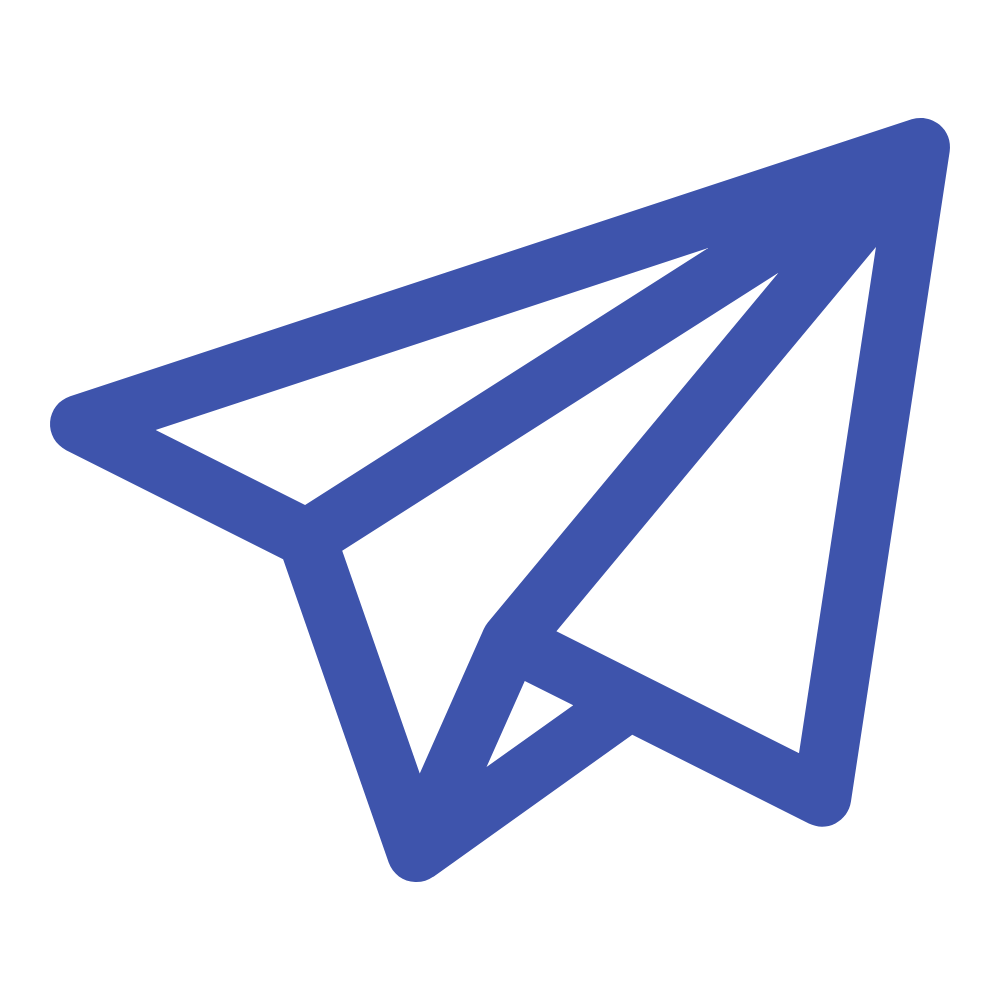
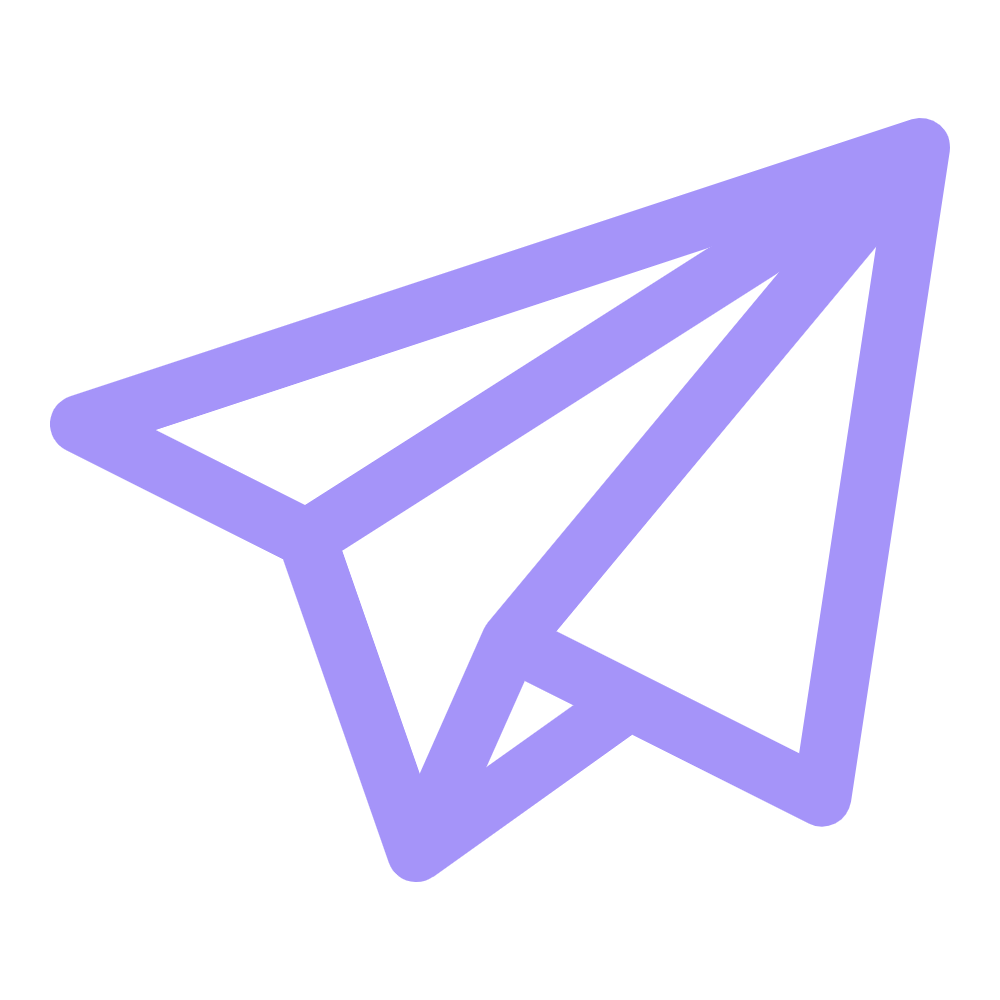
Changed colour schemes, minor changes all around

Changed region(s): [[0.031, 0.093, 0.961, 0.899]]

diff --git a/components/Hero.js b/components/Hero.js
@@ -4,7 +4,6 @@ import config from "@/config";
 import BoxReveal from "./ui/box-reveal";
 import PulsatingButton from "./ui/pulsating-button";
 
-
 const Hero = () => {
   return (
     <section className="max-w-7xl mx-auto bg-base-100 flex flex-col lg:flex-row items-center justify-center gap-16 lg:gap-20 px-8 py-8 lg:py-20">
@@ -26,17 +25,17 @@ const Hero = () => {
 
         
 <h1 className="font-extrabold text-4xl lg:text-6xl tracking-tight md:-mb-4">
-  <BoxReveal boxColor={"#635bff"} duration={0.5}>
-          Turn Your<span style={{ color: "#635bff" }}> Git</span>
+  <BoxReveal boxColor={"#A594F9"} duration={0.5}>
+          Turn Your<span style={{ color: "#A594F9" }}> Git</span>
   </BoxReveal>
-  <BoxReveal boxColor={"#635bff"} duration={0.5}>
-  <span style={{ color: "#635bff" }}> Commits</span> 
+  <BoxReveal boxColor={"#A594F9"} duration={0.5}>
+  <span style={{ color: "#A594F9" }}> Commits</span> 
   </BoxReveal>
-  <BoxReveal boxColor={"#635bff"} duration={0.5}>
+  <BoxReveal boxColor={"#A594F9"} duration={0.5}>
     into 
-    <span style={{ color: "#635bff" }}> Viral </span> Social Media
+    <span style={{ color: "#A594F9" }}> Viral </span> Social Media
   </BoxReveal>
-  <BoxReveal boxColor={"#635bff"} duration={0.5}>
+  <BoxReveal boxColor={"#A594F9"} duration={0.5}>
     Updates!
   </BoxReveal>
   
@@ -51,14 +50,7 @@ const Hero = () => {
         <TestimonialsAvatars priority={true} />
       </div>
       <div className="lg:w-full">
-        <Image
-          src="https://images.unsplash.com/photo-1571171637578-41bc2dd41cd2?ixlib=rb-4.0.3&ixid=M3wxMjA3fDB8MHxwaG90by1wYWdlfHx8fGVufDB8fHx8fA%3D%3D&auto=format&fit=crop&w=3540&q=80"
-          alt="Product Demo"
-          className="w-full"
-          priority={true}
-          width={500}
-          height={500}
-        />
+        
       </div>
     </section>
   );

diff --git a/components/Pricing.js b/components/Pricing.js
@@ -7,12 +7,12 @@ import ButtonCheckout from "./ButtonCheckout";
 
 const Pricing = () => {
   return (
-    <section className="bg-base-200 overflow-hidden" id="pricing">
+    <section className="bg-accent overflow-hidden" id="pricing" >
       <div className="py-24 px-8 max-w-5xl mx-auto">
         <div className="flex flex-col text-center w-full mb-20">
           <p className="font-medium text-primary mb-8">Pricing</p>
           <h2 className="font-bold text-3xl lg:text-5xl tracking-tight">
-            Save hours of repetitive code and ship faster!
+            Save hours of Marketing and focus on development!
           </h2>
         </div>
 
@@ -62,7 +62,7 @@ const Pricing = () => {
                   </p>
                   <div className="flex flex-col justify-end mb-[4px]">
                     <p className="text-xs text-base-content/60 uppercase font-semibold">
-                      USD
+                      CAD
                     </p>
                   </div>
                 </div>
@@ -92,7 +92,7 @@ const Pricing = () => {
                   <ButtonCheckout priceId={plan.priceId} />
 
                   <p className="flex items-center justify-center gap-2 text-sm text-center text-base-content/80 font-medium relative">
-                    Pay once. Access forever.
+                    
                   </p>
                 </div>
               </div>

diff --git a/config.js b/config.js
@@ -26,7 +26,7 @@ const config = {
         //  REQUIRED - Name of the plan, displayed on the pricing page
         name: "Monthly subscription",
         // A friendly description of the plan, displayed on the pricing page. Tip: explain why this plan and not others
-        description: "Perfect for new media posters",
+        description: "Perfect for new developers",
         // The price you want to display, the one user will be charged on Stripe.
         price: 4.99,
         // If you have an anchor price (i.e. $29) that you want to display crossed out, put it here. Otherwise, leave it empty
@@ -35,8 +35,8 @@ const config = {
           {
             name: "Ai generated tweets from github repos",
           },
-          { name: "Social Media Insights" },
-          { name: "simultaneous posting on multiple accounts" },
+          { name: "Post right from your Dashboard!" },
+          { name: "Schedule Tweets" },
           ,
         ],
       },
@@ -55,9 +55,10 @@ const config = {
           {
             name: "Ai generated tweets from github repos",
           },
-          { name: "Social Media Insights" },
-          { name: "simultaneous posting on multiple accounts" },
+          { name: "Post right from your Dashboard!" },
+,
           { name: "24/7 support" },
+          { name: "Schedule Tweets" },  
         ],
       },
     ],

diff --git a/components/Input.js b/components/Input.js
@@ -6,7 +6,7 @@ const Input = () => {
     <StyledWrapper>
       <div className="input-group">
         <input type="email" className="input" id="Email" name="Email" placeholder="uiverse@verse.io" autoComplete="off" />
-        <input className="button--submit" defaultValue="Subscribe" type="submit" />
+        <input className="button--submit" defaultValue="Submit" type="submit" />
       </div>
     </StyledWrapper>
   );
@@ -22,7 +22,7 @@ const StyledWrapper = styled.div`
     min-height: 50px;
     max-width: 150px;
     padding: 0 1rem;
-    color: #fff;
+    color: #000000;
     font-size: 15px;
     border: 1px solid #5e4dcd;
     border-radius: 6px 0 0 6px;
@@ -34,7 +34,7 @@ const StyledWrapper = styled.div`
     padding: .5em 1em;
     border: none;
     border-radius: 0 6px 6px 0;
-    background-color: #5e4dcd;
+    background-color: #A594F9;
     color: #fff;
     font-size: 15px;
     cursor: pointer;

diff --git a/components/Modal.js b/components/Modal.js
@@ -3,6 +3,7 @@
 import { Dialog, Transition } from "@headlessui/react";
 import { Fragment } from "react";
 import GitHubData from "./GitHubData";
+import Input from "./Input";
 
 // A simple modal component which can be shown/hidden with a boolean and a function
 // Because of the setIsModalOpen function, you can't use it in a server component.
@@ -57,7 +58,7 @@ const Modal = ({ isModalOpen, setIsModalOpen }) => {
                   </button>
                 </div>
 
-                <section><GitHubData/></section>
+                <section><GitHubData/>Custom Prompt for tweet:<Input/></section>
               </Dialog.Panel>
             </Transition.Child>
           </div>

diff --git a/components/GitHubData.js b/components/GitHubData.js
@@ -131,7 +131,7 @@ export default function GitHubData({ userId }) {
           {repos.map((repo) => (
             <li key={repo.id} style={{ marginBottom: "1rem", listStyleType: "none" }}>
               <button
-                className="btn btn-outline btn-primary"
+                className="btn btn-outline btn-accent text-white"
                 onClick={() => fetchCommits(repo.owner.login, repo.name)}
               >
                 {repo.name}              

diff --git a/components/ui/pulsating-button.jsx b/components/ui/pulsating-button.jsx
@@ -18,6 +18,7 @@ export default function PulsatingButton({
       )}
       style={
         {
+          backgroundColor: "#A594F9",
           "--pulse-color": pulseColor,
           "--duration": duration
         }
